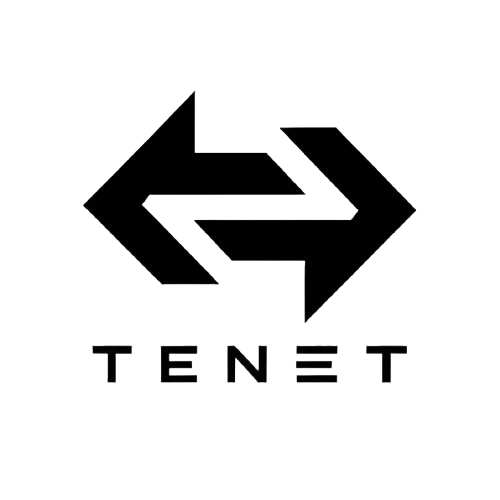
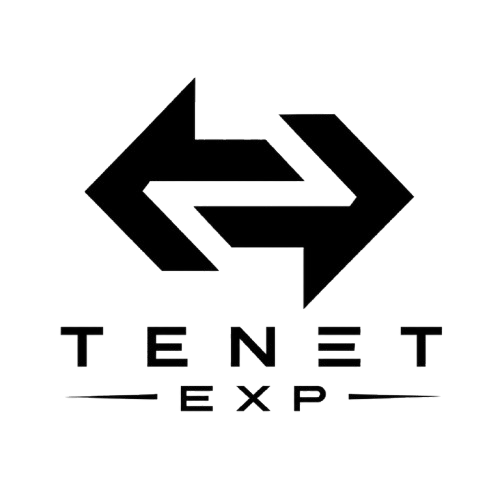
Update website

Changed region(s): [[0.15, 0.15, 0.9, 0.84], [0.12, 0.63, 0.42, 0.84]]

diff --git a/index.html b/index.html
@@ -5,7 +5,7 @@
     <meta name="viewport" content="width=device-width, initial-scale=1.0" />
 
     <link rel="icon" href="assets/images/tenet-circled-icon.png" />
-    <title>TENET</title>
+    <title>TENET EXP</title>
 
     <link
       href="https://cdn.jsdelivr.net/npm/bootstrap@5.3.3/dist/css/bootstrap.min.css"
@@ -30,7 +30,7 @@
         <a class="navbar-brand" href="#home">
           <img
             src="assets/images/White_tenet_icon-removed-bg.png"
-            alt="TENET"
+            alt="TENET EXP"
             width="120"
           />
         </a>
@@ -148,7 +148,7 @@
               </h1>
 
               <p class="hero-text mt-4">
-                TENET helps trucking companies simplify operations through
+                TENET EXP helps trucking companies simplify operations through
                 safety management, ELD services, dispatch, accounting,
                 compliance, insurance, and carrier setup.
               </p>
@@ -173,33 +173,38 @@
             <div class="col-lg-6 text-center">
               <div class="hero-image">
                 <div class="hero-card">
-                  <h5 class="mb-4">TENET Solutions</h5>
+                  <h5 class="mb-4">TENET EXP Solutions</h5>
 
                   <div class="solution-item">
                     <a class="text-decoration-none text-reset" href="#solutions"
                       >Safety Management</a
                     >
                   </div>
+
                   <div class="solution-item">
                     <a class="text-decoration-none text-reset" href="#solutions"
                       >ELD Monitoring</a
                     >
                   </div>
+
                   <div class="solution-item">
                     <a class="text-decoration-none text-reset" href="#solutions"
                       >Dispatch Services</a
                     >
                   </div>
+
                   <div class="solution-item">
                     <a class="text-decoration-none text-reset" href="#solutions"
                       >Accounting</a
                     >
                   </div>
+
                   <div class="solution-item">
                     <a class="text-decoration-none text-reset" href="#solutions"
                       >New MC Setup</a
                     >
                   </div>
+
                   <div class="solution-item">
                     <a class="text-decoration-none text-reset" href="#solutions"
                       >Insurance</a
@@ -216,7 +221,7 @@
         <div class="container">
           <div class="row align-items-center">
             <div class="col-lg-5">
-              <span class="section-label">ABOUT TENET</span>
+              <span class="section-label">ABOUT TENET EXP</span>
 
               <h2 class="about-title">
                 Supporting the people
@@ -227,8 +232,8 @@
 
             <div class="col-lg-6 offset-lg-1">
               <p class="about-text">
-                TENET brings safety, compliance, ELD, and operational services
-                together under one roof.
+                TENET EXP brings safety, compliance, ELD, and operational
+                services together under one roof.
               </p>
 
               <p class="about-description">
@@ -238,7 +243,7 @@
               </p>
 
               <a href="#solutions" class="about-link">
-                Learn more about TENET
+                Learn more about TENET EXP
                 <span>→</span>
               </a>
             </div>
@@ -262,7 +267,7 @@
             <div class="col-lg-5 d-flex align-items-end">
               <p class="solutions-intro">
                 From safety and ELD management to dispatch, accounting, carrier
-                setup, and insurance, TENET supports the essential areas of
+                setup, and insurance, TENET EXP supports the essential areas of
                 trucking operations.
               </p>
             </div>
@@ -333,6 +338,7 @@
                       <span class="service-trigger" data-service="eld">
                         ELD Monitoring
                       </span>
+
                       <span class="service-trigger" data-service="gps">
                         GPS Tracking
                       </span>
@@ -601,7 +607,7 @@
             </h2>
 
             <p>
-              Have a question or want to learn more about TENET and our
+              Have a question or want to learn more about TENET EXP and our
               services? Get in touch with our team.
             </p>
           </div>
@@ -618,7 +624,8 @@
               </div>
 
               <div class="contact-card-content">
-                <span>Email</span> <strong>one@tenetorg.com</strong>
+                <span>Email</span>
+                <strong>one@tenetorg.com</strong>
               </div>
 
               <i
@@ -647,7 +654,7 @@
           <a href="#home" class="footer-logo">
             <img
               src="assets/images/Tenet-icon-removebg.png"
-              alt="TENET"
+              alt="TENET EXP"
               width="120"
             />
           </a>
@@ -681,7 +688,7 @@
       </div>
 
       <div class="footer-bottom">
-        <span>© 2026 TENET. All rights reserved.</span>
+        <span>© 2026 TENET EXP. All rights reserved.</span>
 
         <div class="footer-legal">
           <a href="#">Privacy Policy</a>
